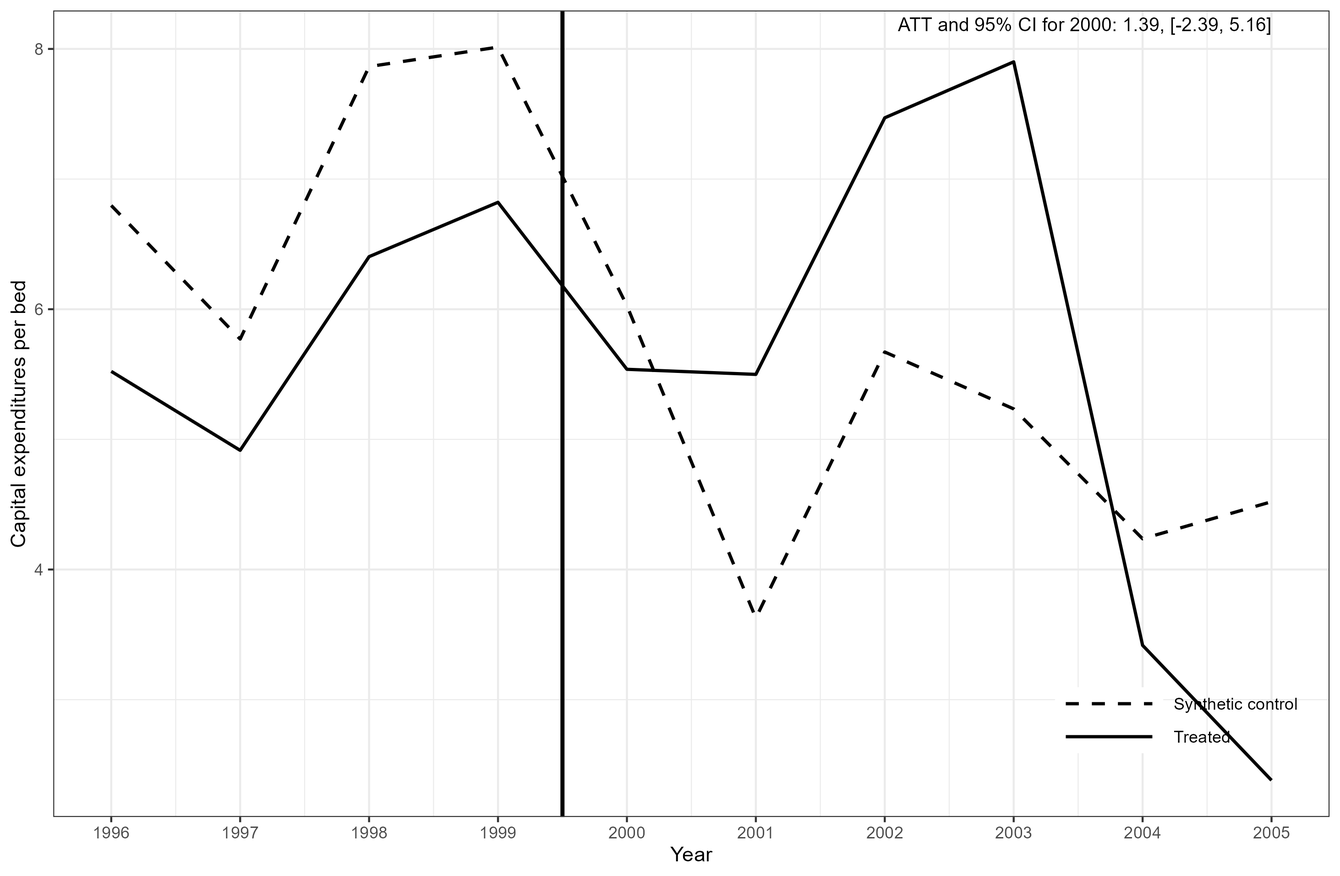
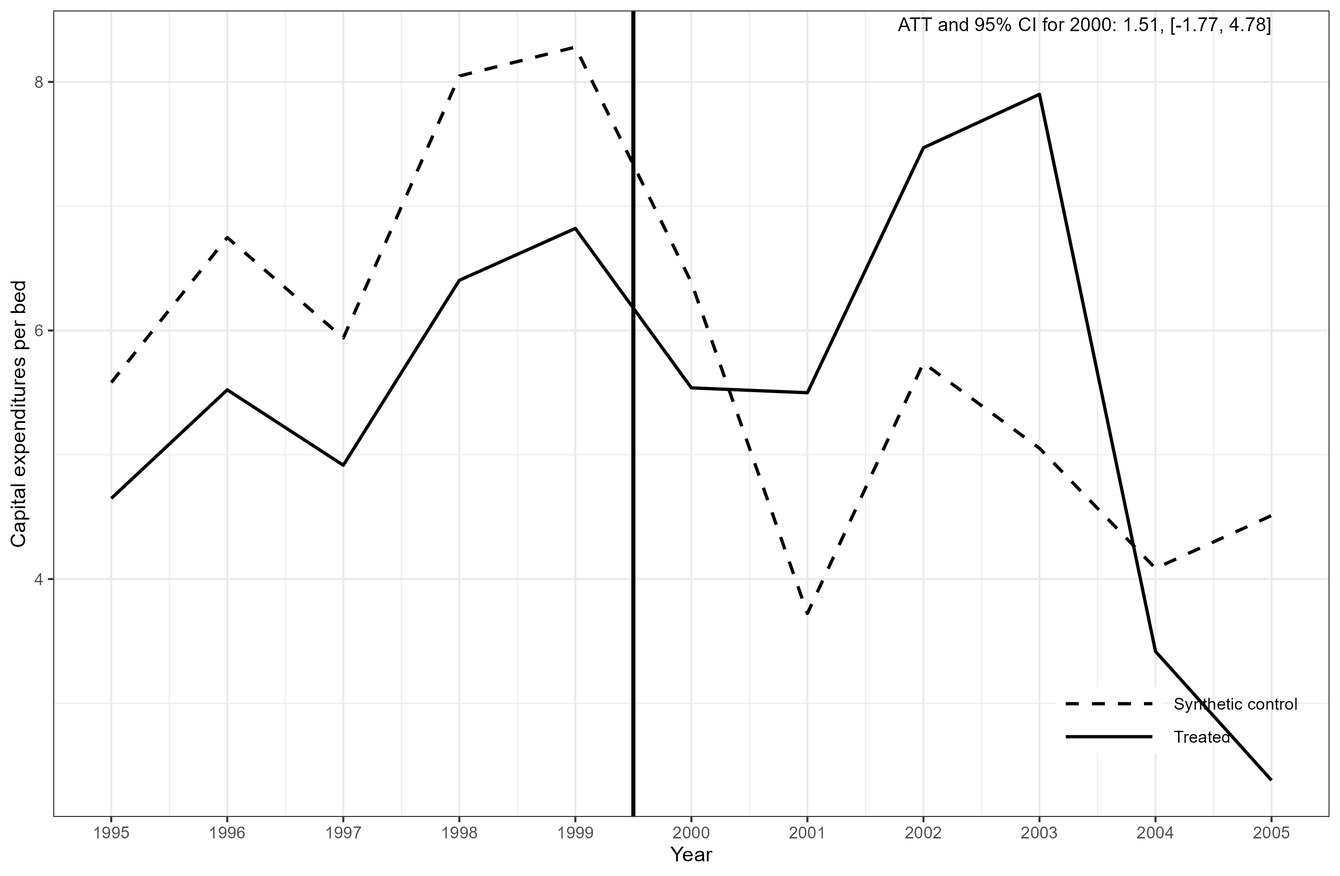
update results and sync with paper

diff --git a/paper.tex b/paper.tex
@@ -105,13 +105,13 @@ Credibly estimating the effects of CAH designation is complicated by staggered p
 
 We implement this comparison using a Synthetic Difference-in-Differences (SDID) estimator, which constructs weighted combinations of control hospitals to closely match treated hospitals’ pre-designation outcome trajectories. This approach is well suited to our setting, where treatment occurs in a small number of cohorts and conventional difference-in-differences comparisons may be sensitive to residual imbalance or differential trends across states.
 
-Using hospital-level CAH designation data from the Flex Monitoring Team, annual survey data from the American Hospital Association, and financial data from the Hospital Cost Report Information System and IRS Form 990 filings, we estimate the effects of CAH designation on hospital finances, investment, capacity, and organizational outcomes. We find that CAH designation substantially improves short-run financial performance, increasing operating margins and easing immediate financial pressure. These gains, however, do not translate into large increases in long-run capital intensity: capital expenditures rise modestly, while installed capital per bed changes little. Instead, hospitals respond primarily by adjusting scale. CAH designation is associated with reductions in total beds, obstetric capacity, and nursing staff, consistent with active resizing to satisfy eligibility requirements. At the organizational level, CAH designation reduces hospital closures, with no meaningful effect on merger activity. Taken together, the results suggest that CAH designation preserves hospital survival largely by inducing continued operation at a smaller scale rather than by maintaining pre-designation capacity.
+Using hospital-level CAH designation data from the Flex Monitoring Team, annual survey data from the American Hospital Association, and financial data from the Hospital Cost Report Information System and IRS Form 990 filings, we estimate the effects of CAH designation on hospital finances, investment, capacity, and organizational outcomes. We find that CAH designation substantially improves short-run financial performance, increasing operating margins and easing immediate financial pressure. These gains, however, do not translate into large increases in long-run capital intensity: capital expenditures are imprecisely estimated and net fixed assets per bed change little. Instead, hospitals respond primarily by adjusting scale. CAH designation is associated with reductions in total beds, obstetric capacity, and nursing staff, consistent with active resizing to satisfy eligibility requirements. At the organizational level, CAH designation reduces hospital closures, with no meaningful effect on merger activity and a modest increase in system membership. Taken together, the results suggest that CAH designation preserves hospital survival largely by inducing continued operation at a smaller scale rather than by maintaining pre-designation capacity.
 
 While CAH designation improves hospital survival, the implications for aggregate inpatient capacity are less clear. Reduced closures preserve capacity that would otherwise be lost, but hospitals that convert to CAH status also reduce beds and staffing to comply with eligibility requirements. To gauge the net effect, we combine our estimated impacts on closures and within-hospital capacity in a simple back-of-the-envelope calculation. Using our point estimates and a conversion rate consistent with observed CAH adoption during the initial rollout, the implied reduction in beds among converting hospitals outweighs the capacity preserved through avoided closures. These calculations are necessarily approximate and sensitive to assumptions about conversion intensity and closure risk, but they highlight an important mechanism: designation-based subsidies may preserve hospital presence primarily by encouraging continued operation at a smaller scale rather than by maintaining pre-designation capacity.
 
 This paper contributes to three related literatures. First, a large body of work studies hospital closures and their consequences for access and patient outcomes \citep{buchmueller2006, holmes2006, lindrooth2003, hsia2011, chandra2023, chatterji2024}. A complementary strand examines the determinants of hospital exit, emphasizing the role of financial distress, payer mix, and local market conditions \citep{sloan2003, harrison2007}. Second, a growing literature evaluates how policy-driven changes in hospital resources affect financial performance and survival. In the context of broad financing reforms, Medicaid expansions are associated with improved hospital margins and reductions in closure risk \citep{blavin2016, lindrooth2018, blavin2021}. Third, we relate to work studying Medicare’s targeted payment adjustments for low-volume or rural providers, which are often justified on access grounds but may change hospitals’ long-run incentives and scale of operation (e.g., through eligibility constraints and compliance requirements).
 
-Our focus on CAH designation is distinct because it is a designation-based subsidy that simultaneously raises reimbursement and restricts scale, making its net implications for access theoretically ambiguous. Existing work has largely emphasized survival as the principal outcome, with less attention to how policies that prevent closure may simultaneously reshape hospitals’ operational scale and service capacity. Our analysis therefore complements \cite{carroll2025}, who studies CAH designation through simulated revenue changes and closure hazards, by estimating the reduced-form effects of designation itself on a broader set of outcomes—including capital investment, capacity, and staffing—while exploiting the staggered 1999–2002 rollout of state CAH availability. This broader perspective allows us to characterize not only whether hospitals remain open, but how the quantity and scope of care they provide changes when they do.
+Our focus on CAH designation is distinct because it is a designation-based subsidy that simultaneously raises reimbursement and restricts scale, making its net implications for access theoretically ambiguous. Existing work has largely emphasized survival as the principal outcome, with less attention to how policies that prevent closure may simultaneously reshape hospitals’ operational scale and service capacity. Our analysis therefore complements \cite{carroll2025}, who studies CAH designation through simulated revenue changes and closure hazards, by estimating the reduced-form effects of designation itself on a broader set of outcomes—including capital investment, capacity, and staffing—while exploiting the staggered 1999–2002 rollout of state CAH availability. Our main SDID estimates focus on the 1999–2001 cohorts, which capture the core early adoption years of the CAH program. This broader perspective allows us to characterize not only whether hospitals remain open, but how the quantity and scope of care they provide changes when they do.
 
 Our findings are particularly salient given renewed policy interest in designation-based approaches to hospital support. For example, the American Hospital Association has recently advocated for a new ``Metropolitan Anchor Hospital'' designation aimed at stabilizing urban safety-net hospitals with high Medicaid exposure. While such proposals differ in important ways from the CAH program, they share a common logic: providing targeted financial relief to hospitals deemed essential to local access. Our results suggest that designation-based subsidies can be effective at preserving hospital survival, but that they may do so by encouraging hospitals to operate at a smaller scale. As a result, policymakers considering similar interventions should weigh not only whether hospitals remain open, but also how designation affects the quantity and scope of care those hospitals ultimately provide.
 
@@ -167,7 +167,7 @@ We measure capital intensity as real net fixed assets per bed, where net fixed a
 We measure hospital capacity and staffing using three complementary indicators drawn from the AHA Annual Survey: total staffed beds, obstetric (OB) beds, and full-time equivalent (FTE) registered nurses. Total beds capture overall inpatient capacity, while OB beds provide a targeted measure of capacity in maternity services, a clinically and financially salient service line for many small and rural hospitals. FTE registered nurses proxy for labor inputs and operational capacity, reflecting hospitals’ ability to staff inpatient services and sustain day-to-day clinical operations
 
 \paragraph{\textit{Organizational change.}}  
-Closures and mergers are identified using the AHA’s summary of changes. We construct indicators for each event at the hospital-year level and aggregate to counts at the state-year level. To facilitate comparisons across states and over time, we normalize outcomes by computing closures or mergers per 100 hospitals, using the lagged hospital stock as the denominator.  
+Closures and mergers are identified using the AHA’s summary of changes. We construct indicators for each event at the hospital-year level and aggregate to counts at the state-year level. To facilitate comparisons across states and over time, we rescale SDID estimates and plotted paths by the mean pre-period hospital count in treated states, reporting results as counts per 100 hospitals.  
 
 \paragraph{\textit{Other covariates.}}  
 From the AHA survey, we collect ownership, teaching status, system affiliation, and bed size. To capture geographic isolation, which is central to CAH eligibility, we compute the distance from each hospital to its nearest neighbor. We combine ZIP-code–based and latitude–longitude measures, taking the minimum of the two to approximate travel distance.  
@@ -180,7 +180,7 @@ Figure~\ref{fig:desc-panelview-treat} visualizes the staggered rollout of CAH de
 
 We limit our empirical analysis to the years from 1995 through 2010 in order to align with the core years over which states adopted CAH designations (1999 through 2002) and avoid increasingly noisy estimates of operating margins in prior years. With this additional restriction to 1995-2010, Table~\ref{tab:summary-by-cah} provides descriptive statistics for CAHs and non-CAHs, focusing on the key CAH eligibility criteria of bed size, rural location, and proximity to other hospitals, as well as our primary outcome variables of operating margin, closures, and mergers. For CAHs, we present summary statistics separately for the years prior to CAH designation, the years with CAH designation, and all years combined (columns 1-3 of Table~\ref{tab:summary-by-cah}. Hospitals that received CAH designation after 2010 (before 1995) therefore enter into the ``pre'' (``post'') values but not vice versa, hence the different counts of pre and post within CAH designated hospitals. 
 
-We highlight three points from Table \ref{tab:summary-by-cah}. First, CAHs are significantly smaller, more rural, and less proximate to other hospitals than are non-CAHs, consistent with the underlying CAH eligibility criteria. Second, demonstrating the the relative flexibility in CAH eligibility criteria, there remains some overlap in the distribution of these characteristics between CAH and non-CAH. For example, among hospitals receiving CAH designation, the 90th percentile in bed size in pre-CAH years was 103. Meanwhile the 10th percentile of bed size for non-CAHs was 49. CAH designation therefore does not rigidly imply that hospitals are rural, smaller, or less proximate to others than non-CAHs, although on average this remains true. Third, we see that hospitals already with CAH designation are consistently smaller in terms of bed size than similar hospitals who eventually also receive CAH designation. For example, after receiving CAH designation, the mean CAH bed size and mean number of inpatient days were 40 and 8, respectively. Meanwhile, the mean bed size and inpatient days for CAHs before receiving designation was 56 and 11. The level changes in bed sizes and inpatient days reflect the practical constraints placed on hospitals once receiving CAH designation, wherein such hospitals appear to reduce their number of beds and inpatient days in order to receive and maintain CAH designation.
+We highlight three points from Table \ref{tab:summary-by-cah}. First, CAHs are significantly smaller, more rural, and less proximate to other hospitals than are non-CAHs, consistent with the underlying CAH eligibility criteria. Second, demonstrating the relative flexibility in CAH eligibility criteria, there remains some overlap in the distribution of these characteristics between CAH and non-CAH. For example, among hospitals receiving CAH designation, the 90th percentile in bed size in pre-CAH years was 106. Meanwhile the 10th percentile of bed size for non-CAHs was 49. CAH designation therefore does not rigidly imply that hospitals are rural, smaller, or less proximate to others than non-CAHs, although on average this remains true. Third, we see that hospitals already with CAH designation are consistently smaller in terms of bed size than similar hospitals who eventually also receive CAH designation. For example, after receiving CAH designation, the mean CAH bed size and mean inpatient days per bed were 40 and 134, respectively. Meanwhile, the mean bed size and inpatient days per bed for CAHs before receiving designation were 54 and 165. The level changes in bed sizes and inpatient days per bed reflect the practical constraints placed on hospitals once receiving CAH designation, wherein such hospitals appear to reduce their number of beds and inpatient days in order to receive and maintain CAH designation.
 
 \section{Effects of CAH Designation}
 \label{sec:design}
@@ -190,7 +190,7 @@ Guided by our discussion in Section~\ref{sec:background} and surrounding Eq.~\eq
 \subsection{Empirical Strategy}
 \label{sec:design-methods}
 
-SDID estimates nonnegative unit weights on the comparison pool to reproduce the treated cohort’s pre-period trajectory and time weights to align pre-period averages, yielding a post-period ATT and treated/synthetic paths. We report cohort-level paths to make the identifying variation transparent and then aggregate across cohorts in event time by weighting each cohort’s path by its treated-unit count. Inference follows our implementation: bootstrap standard errors for hospital-level margins and jackknife for state-level count outcomes.
+SDID estimates nonnegative unit weights on the comparison pool to reproduce the treated cohort’s pre-period trajectory and time weights to align pre-period averages, yielding a post-period ATT and treated/synthetic paths. We report cohort-level paths to make the identifying variation transparent and then aggregate across cohorts in event time by weighting each cohort’s path by its treated-unit count. Inference follows our implementation: jackknife standard errors.
 
 Formally, let $Y_{it}$ denote the outcome for unit $i$ in period $t$, $D_{it}$ an indicator for treatment, and $G$ the set of treated units in a given cohort $c$ with pre-period $\mathcal{T}_0$ and post-period $\mathcal{T}_1$. The SDID estimator chooses unit weights $\omega=(\omega_j)_{j\in C}$ for comparison units $C$ and time weights $\lambda=(\lambda_t)_{t\in\mathcal{T}_0}$ to minimize
 \begin{equation*}
@@ -202,7 +202,7 @@ subject to $\omega_j\ge 0$, $\sum_{j\in C}\omega_j=1$, and $\lambda_t\ge 0$, $\s
 \begin{equation*}
 \widehat{\tau}_c = \frac{1}{|\mathcal{T}_1|}\sum_{t\in \mathcal{T}_1}\Big(\bar Y_{Gt} - \sum_{j\in C}\omega_j Y_{jt}\Big).
 \end{equation*}
-We report both the path $\bar Y_{Gt}-\sum_{j\in C}\omega_j Y_{jt}$ over $t$ and the pooled ATT $\widehat\tau_c$. Cohort estimates are then aggregated in event time by weighting each cohort’s path by its treated-unit count.  We summarize effects across cohorts using a precision-weighted average, where each cohort’s ATT is weighted by the inverse of its estimated variance. This aggregation places greater weight on cohorts for which treatment effects are estimated more precisely. We report standard errors for the pooled estimate using the corresponding inverse-variance formula, treating cohort-specific estimates as approximately independent.
+We report both the path $\bar Y_{Gt}-\sum_{j\in C}\omega_j Y_{jt}$ over $t$ and the pooled ATT $\widehat\tau_c$. Cohort estimates are then aggregated in event time by weighting each cohort’s path by its treated-unit count. We summarize effects across cohorts using treated-unit–count weights for the pooled ATT and compute pooled standard errors using the same weighting scheme, treating cohort-specific estimates as approximately independent.
 
 We prefer an SDID approach for two reasons. First, our analysis relies on a small number of states and hospitals receiving CAH designation, along with a limited pool of comparable control hospitals, for which SDID methods are less sensitive. Second, the criteria for CAH designation are not strictly mechanical in practice, which will tend to introduce unobserved heterogeneity and potential endogeneity into the treatment selection process. Hospitals that receive CAH designation may therefore systematically differ in a time-varying way from a simply-defined control group (e.g., small, rural hospitals in the same state). In assigning optimal weights to minimize the pre-treatment outcome differences, SDID methods intuitively creates a control group for which the parallel trends assumption is more likely to be satisfied.\footnote{We complement our SDID estimates with a Callaway–Sant’Anna (CS) event-study estimator that also traces dynamic responses over time \citep{callaway2021}.} 
 
@@ -213,13 +213,13 @@ In the remainder of this section, we discuss results by outcome category, beginn
 
 We begin by examining how CAH designation affects hospital operating margins, the most immediate outcome of the reimbursement change in Section~\ref{sec:conceptual}. In this analysis, treatment is defined at the hospital level: a hospital is considered treated once it receives CAH designation, and the unit of observation is the hospital-year. The sample is restricted to facilities plausibly eligible for designation (i.e., small rural hospitals consistent with program criteria), excluding hospitals with missing financial data. This setup isolates the direct effect of adopting CAH status on hospital margins.
 
-For each cohort, we construct a balanced panel of treated units and never-treated comparisons over a symmetric window around the adoption year. For each treated cohort $i$, defined by the year of first CAH designation, we construct the treated group as hospitals that receive their initial CAH designation in year (i) and are observed over an event window $$([i-\text{pre},, i+\text{post}]).$$ The main control group consists of ``not-yet-treated'' hospitals that (i) do not receive CAH at any point within that event window and (ii) are located in states that had no CAH hospitals as of the cohort year. This design means that, for a 1999 CAH in Arkansas, for example, we can use non-CAH Kentucky hospitals through the event window as controls (Kentucky’s first CAH arrives in 2000), but we do not include as controls any hospitals in Georgia, where CAH was already available in 1999. The restriction on a state's first CAH designation is intended to reduce reliance on comparisons between early adopters and same-state or same-cohort non-adopters whose decision not to convert may reflect unobserved, time-varying hospital characteristics (e.g., management quality, lobbying success, or local politics) that also directly affect the outcomes we study. This restriction therefore pushes the design toward comparing treated hospitals to similar hospitals in ``slower'' Flex states that had not yet opened the CAH option in the cohort year, while still allowing those states to roll out CAH later and using their not-yet-treated hospitals as controls.\footnote{In the supplemental appendix, we show that our results are robust to varying lags for state-level CAH adoption. As the lag increases, potential bias from future treatment of the control units declines, along with our available control pool of hospitals. The resulting estimates are less precise but broadly consistent with our main specification and sample construction.}
+For each cohort, we construct a balanced panel of treated units and comparison hospitals over a symmetric window around the adoption year. For each treated cohort $i$, defined by the year of first CAH designation, we construct the treated group as hospitals that receive their initial CAH designation in year (i) and are observed over an event window $$([i-\text{pre},, i+\text{post}]).$$ The comparison pool combines two groups: (i) ``never-treated'' hospitals located in states that never adopt CAH designation during our sample, and (ii) ``not-yet-treated'' hospitals in later-adopting states that have no CAH hospitals as of the cohort year and do not convert within the event window. This design means that, for a 1999 CAH in Arkansas, for example, we can use non-CAH Kentucky hospitals through the event window as controls (Kentucky’s first CAH arrives in 2000), but we do not include as controls any hospitals in Georgia, where CAH was already available in 1999. The restriction on a state's first CAH designation is intended to reduce reliance on comparisons between early adopters and same-state or same-cohort non-adopters whose decision not to convert may reflect unobserved, time-varying hospital characteristics (e.g., management quality, lobbying success, or local politics) that also directly affect the outcomes we study. This restriction therefore pushes the design toward comparing treated hospitals to similar hospitals in ``slower'' Flex states that had not yet opened the CAH option in the cohort year, while still allowing those states to roll out CAH later and using their not-yet-treated hospitals as controls.\footnote{In the supplemental appendix, we show that our results are robust to varying lags for state-level CAH adoption. As the lag increases, potential bias from future treatment of the control units declines, along with our available control pool of hospitals. The resulting estimates are less precise but broadly consistent with our main specification and sample construction.}
 
-Figure~\ref{fig:sdid-financial} reports SDID estimates of CAH designation on operating margin and the current ratio. Consistent with financial distress preceding conversion, treated hospitals exhibit declining margins relative to their synthetic controls in the pre-period, followed by a discrete improvement around adoption. The pooled ATT implies that CAH designation increases operating margin by 0.041 (95\% CI [0.01, 0.08]), a sizable gain that aligns with cost-based reimbursement raising Medicare revenue net of compliance costs. By contrast, liquidity improves in the point estimates but is imprecisely estimated: the pooled ATT for the current ratio is 0.278 with a confidence interval that includes zero (95\% CI [-0.73, 1.29]). Overall, the margin results provide clear evidence that CAH designation relaxes short-run financial pressure, while the liquidity results suggest (but do not conclusively establish) improved near-term financial flexibility.
+Figure~\ref{fig:sdid-financial} reports SDID estimates of CAH designation on operating margin and the current ratio. Consistent with financial distress preceding conversion, treated hospitals exhibit declining margins relative to their synthetic controls in the pre-period, followed by a discrete improvement around adoption. The pooled ATT implies that CAH designation increases operating margin by 0.035 (95\% CI [0.00, 0.07]), a sizable gain that aligns with cost-based reimbursement raising Medicare revenue net of compliance costs. By contrast, liquidity improves in the point estimates but is imprecisely estimated: the pooled ATT for the current ratio is -0.020 with a confidence interval that includes zero (95\% CI [-0.91, 0.87]). Overall, the margin results provide clear evidence that CAH designation relaxes short-run financial pressure, while the liquidity results suggest (but do not conclusively establish) improved near-term financial flexibility.
 
 \subsection{Capital Stock and Investment}
 \label{sec:capital}
-Figure~\ref{fig:sdid-capital} examines whether the improved operating position translates into changes in capital intensity (net fixed assets per bed) and investment flows (capital expenditures per bed). The estimated effect on the installed capital stock is negative but modest and statistically indistinguishable from zero: the pooled ATT for net fixed assets per bed is -0.086 (95\% CI [-0.24, 0.07]). Estimated effects on capital expenditures are also negative but highly imprecise (ATT = -0.794, 95\% CI [-5.17, 3.59]). Taken together, these results do not support a strong conclusion that CAH designation meaningfully changes long-run capital intensity over the time horizon we study. A natural interpretation is that the reimbursement change eases short-run financial constraints (as reflected in margins) but that adjustments in the capital stock are slower-moving and potentially offset by contemporaneous reductions in scale needed to satisfy CAH eligibility. 
+Figure~\ref{fig:sdid-capital} examines whether the improved operating position translates into changes in capital intensity (net fixed assets per bed) and investment flows (capital expenditures per bed). The estimated effect on the installed capital stock is negative but modest and statistically indistinguishable from zero: the pooled ATT for net fixed assets per bed is -0.090 (95\% CI [-0.27, 0.09]). Estimated effects on capital expenditures are also negative but highly imprecise (ATT = -0.906, 95\% CI [-5.37, 3.56]). Taken together, these results do not support a strong conclusion that CAH designation meaningfully changes long-run capital intensity over the time horizon we study. A natural interpretation is that the reimbursement change eases short-run financial constraints (as reflected in margins) but that adjustments in the capital stock are slower-moving and potentially offset by contemporaneous reductions in scale needed to satisfy CAH eligibility. 
 
 \subsection{Capacity and Staffing}
 \label{sec:capacity}
@@ -230,9 +230,9 @@ Figure~\ref{fig:sdid-capacity} shows that CAH designation is associated with a c
 
 Aggregating to the state-year level yields information on the number of hospitals, closures, mergers, and CAH adoptions in each state. Treatment timing is defined as the first observed CAH designation in a state, producing staggered adoption between 1999 and 2002. Event-time variables are defined relative to each state’s adoption year.
 
-We next examine whether CAH designation altered hospitals’ propensity to exit or consolidate. Outcomes are defined at the state-year level and normalized to ``per 100 hospitals’’ to allow comparability across cohorts with different hospital stocks. Figure~\ref{fig:change-sdid} presents SDID results for (a) closures and (b) mergers. In each case, the synthetic controls track the pre-designation trajectories reasonably well, though the pre-period series is noisier than for financial outcomes because closures and mergers are relatively rare events.
+We next examine whether CAH designation altered hospitals' propensity to exit, consolidate, or join a larger system. Closures and mergers are defined at the state-year level as counts. To aid interpretation and comparability, we rescale SDID estimates and plotted paths by the mean pre-period hospital count in treated states, reporting results as counts per 100 hospitals. System membership is measured at the hospital-year level, so this outcome is estimated at the hospital level. Figure~\ref{fig:sdid-org-change} presents SDID results for (a) closures, (b) mergers, and (c) system membership. The synthetic controls track pre-designation trajectories reasonably well; the pre-period series is noisier for closures and mergers because these events are relatively rare.
 
-The post-period estimates point to meaningful reductions in closures following CAH designation. The pooled ATT implies a decline of 0.483 closures per 100 hospitals (95\% CI [-0.83, -0.13]), consistent with CAH reimbursement relaxing acute financial distress and thereby reducing the likelihood of exit. By contrast, we find no evidence of a systematic effect on merger activity: the pooled ATT for mergers is 0.111 per 100 hospitals, with a confidence interval that includes zero (95\% CI [-0.19, 0.41]). Taken together, the organizational-change results indicate that CAH designation primarily operates on the extensive margin of survival rather than affecting consolidation, consistent with the improved operating margins documented in Section~\ref{sec:financial}.
+The post-period estimates point to meaningful reductions in closures following CAH designation. The pooled ATT implies a decline of 0.483 closures per 100 hospitals (95\% CI [-0.83, -0.13]), consistent with CAH reimbursement relaxing acute financial distress and thereby reducing the likelihood of exit. By contrast, we find no evidence of a systematic effect on merger activity: the pooled ATT for mergers is 0.111 per 100 hospitals, with a confidence interval that includes zero (95\% CI [-0.19, 0.41]). At the hospital level, we find a modest increase in system membership (ATT = 0.074, 95\% CI [0.01, 0.14]), suggesting some movement toward affiliation even as closures decline. Taken together, the organizational-change results indicate that CAH designation primarily operates on the extensive margin of survival rather than affecting consolidation, consistent with the improved operating margins documented in Section~\ref{sec:financial}.
 
 
 \subsection{Net Capacity Effects}
@@ -251,19 +251,19 @@ N\rho\,\Delta B,
 \end{equation}
 where the first term captures beds preserved via avoided closures and the second term captures beds lost (or gained) through within-hospital changes among CAH converters.
 
-We implement \eqref{eq:net_beds} using our pooled SDID estimates: $\Delta C=-0.483$ closures per 100 hospitals and $\Delta B=-4.081$ beds per converting hospital. For a back-of-the-envelope conversion intensity we set $\rho=0.30$. To proxy $\bar B_{\text{close}}$, we use the mean pre-CAH bed size from Table~\ref{tab:summary-by-cah}, $\bar B_{\text{close}}\approx 59$. Dividing \eqref{eq:net_beds} by $N$ yields the net effect per hospital:
+We implement \eqref{eq:net_beds} using our pooled SDID estimates: $\Delta C=-0.483$ closures per 100 hospitals and $\Delta B=-4.081$ beds per converting hospital. For a back-of-the-envelope conversion intensity we set $\rho=0.30$. To proxy $\bar B_{\text{close}}$, we use the mean pre-CAH bed size from Table~\ref{tab:summary-by-cah}, $\bar B_{\text{close}}\approx 54$. Dividing \eqref{eq:net_beds} by $N$ yields the net effect per hospital:
 \begin{equation*}
 \frac{\Delta \text{Beds}^{net}}{N}
 =
-\left(\frac{0.483}{100}\right)\times 59
+\left(\frac{0.483}{100}\right)\times 54
 +
 0.30\times(-4.081)
 \approx
-0.285 - 1.224
+0.261 - 1.224
 =
--0.939.
+-0.964.
 \end{equation*}
-Thus, under these assumptions, the point estimates imply a net reduction of approximately $0.94$ beds per hospital (or $0.94N$ beds for a group of $N$ hospitals). Intuitively, the estimated reduction in closures preserves some capacity, but the within-hospital bed reductions among converting hospitals dominate at the observed conversion rates.
+Thus, under these assumptions, the point estimates imply a net reduction of approximately $0.96$ beds per hospital (or $0.96N$ beds for a group of $N$ hospitals). Intuitively, the estimated reduction in closures preserves some capacity, but the within-hospital bed reductions among converting hospitals dominate at the observed conversion rates.
 
 Because \eqref{eq:net_beds} is linear in $\rho$, it is straightforward to compute the break-even conversion share $\rho^{*}$ at which preserved beds from avoided closures exactly offset resizing among converters. Setting $\Delta \text{Beds}^{net}=0$ and solving for $\rho$ gives
 \begin{equation}
@@ -272,45 +272,45 @@ Because \eqref{eq:net_beds} is linear in $\rho$, it is straightforward to comput
 \frac{\left(\frac{-\Delta C}{100}\right)\bar B_{\text{close}}}{-\Delta B}.
 \label{eq:rho_star_beds}
 \end{equation}
-Using $\Delta C=-0.483$, $\Delta B=-4.081$, and $\bar B_{\text{close}}\approx 59$ implies
+Using $\Delta C=-0.483$, $\Delta B=-4.081$, and $\bar B_{\text{close}}\approx 54$ implies
 $$
 \rho^{*}
 =
-\frac{(0.483/100)\times 59}{4.081}
+\frac{(0.483/100)\times 54}{4.081}
 \approx
-0.070.
+0.064.
 $$
-That is, about 7\% of hospitals would need to convert for the point estimates to imply break-even bed capacity. When $\rho$ exceeds this threshold---as in our setting once the program is broadly available---the implied net effect on total beds is negative, reflecting that CAH designation preserves hospital presence primarily through continued operation at a smaller scale rather than through maintenance of pre-designation capacity.
+That is, about 6\% of hospitals would need to convert for the point estimates to imply break-even bed capacity. When $\rho$ exceeds this threshold---as in our setting once the program is broadly available---the implied net effect on total beds is negative, reflecting that CAH designation preserves hospital presence primarily through continued operation at a smaller scale rather than through maintenance of pre-designation capacity.
 
 \paragraph{\textit{Accounting for utilization.}}
 The bed-based calculation in \eqref{eq:net_beds} captures the extensive margin of capacity but ignores changes in how intensively beds are used. Our estimates indicate that CAH designation also reduces inpatient days per bed by approximately $6.7$ days, though this effect is imprecisely estimated. Converting hospitals may not only have fewer beds but also operate those beds at lower intensity. To incorporate this margin, we extend the accounting exercise to total inpatient days.
 
-Let $\bar U_0$ denote pre-CAH inpatient days per bed, and let $\Delta U$ denote the estimated change in utilization per bed. Using values from Table~\ref{tab:summary-by-cah}, $\bar U_0 \approx 168$ days per bed. The total change in inpatient days per converting hospital combines bed and utilization effects:
+Let $\bar U_0$ denote pre-CAH inpatient days per bed, and let $\Delta U$ denote the estimated change in utilization per bed. Using values from Table~\ref{tab:summary-by-cah}, $\bar U_0 \approx 165$ days per bed. The total change in inpatient days per converting hospital combines bed and utilization effects:
 $$
 \Delta D = \Delta B \cdot \bar U_0 + \bar B_{\text{close}} \cdot \Delta U + \Delta B \cdot \Delta U.
 $$
 Substituting our estimates yields
 $$
-\Delta D = (-4.081)(168) + (59)(-6.663) + (-4.081)(-6.663) \approx -686 - 393 + 27 = -1{,}052
+\Delta D = (-4.081)(165) + (54)(-6.663) + (-4.081)(-6.663) \approx -673 - 360 + 27 = -1{,}006
 $$
-inpatient days per converting hospital. Avoided closures preserve $\bar B_{\text{close}} \times \bar U_0 = 59 \times 168 = 9{,}912$ inpatient days per marginal hospital. The net effect on inpatient days per hospital is therefore
+inpatient days per converting hospital. Avoided closures preserve $\bar B_{\text{close}} \times \bar U_0 = 54 \times 165 = 8{,}910$ inpatient days per marginal hospital. The net effect on inpatient days per hospital is therefore
 $$
 \frac{\Delta D^{net}}{N}
 =
-\left(\frac{0.483}{100}\right) \times 9{,}912
+\left(\frac{0.483}{100}\right) \times 8{,}910
 +
-0.30 \times (-1{,}052)
+0.30 \times (-1{,}006)
 \approx
-47.9 - 315.6
+43.0 - 301.8
 =
--267.7.
+-258.8.
 $$
-The break-even conversion share under this measure is $\rho^{*} = 47.9 / 1{,}052 \approx 0.046$, or about 5\%. Accounting for utilization thus implies a less favorable capacity tradeoff: CAH designation must reduce closures by more, or fewer hospitals must convert, to avoid net reductions in service capacity.
+The break-even conversion share under this measure is $\rho^{*} = 43.0 / 1{,}006 \approx 0.043$, or about 4\%. Accounting for utilization thus implies a less favorable capacity tradeoff: CAH designation must reduce closures by more, or fewer hospitals must convert, to avoid net reductions in service capacity.
 
 \paragraph{\textit{Sensitivity to conversion and closure effects.}}
 The net-capacity calculations depend primarily on two quantities: the share of hospitals that convert to CAH status, $\rho$, and the magnitude of the closure response, $\Delta C$. Because the expressions are linear in both parameters, it is straightforward to assess how the implied net effect would change under alternative scenarios. Holding fixed the estimated within-hospital effects, an increase in $\rho$ mechanically amplifies the capacity loss from downsizing, while a larger (more negative) value of $\Delta C$ increases the amount of capacity preserved through avoided closures.
 
-The marginal effect of increasing the conversion share on net beds is $\partial(\Delta \text{Beds}^{net}/N)/\partial\rho=\Delta B \approx -4.1$ beds per ten-percentage-point increase in conversion. By contrast, the marginal effect of strengthening the closure response is $\partial(\Delta \text{Beds}^{net}/N)/\partial(-\Delta C)=\bar B_{\text{close}}/100 \approx 0.59$ beds per hospital. Thus, increases in conversion intensity must be accompanied by disproportionately large reductions in closure risk in order to offset the resulting downsizing.
+The marginal effect of increasing the conversion share on net beds is $\partial(\Delta \text{Beds}^{net}/N)/\partial\rho=\Delta B \approx -4.1$ beds per ten-percentage-point increase in conversion. By contrast, the marginal effect of strengthening the closure response is $\partial(\Delta \text{Beds}^{net}/N)/\partial(-\Delta C)=\bar B_{\text{close}}/100 \approx 0.54$ beds per hospital. Thus, increases in conversion intensity must be accompanied by disproportionately large reductions in closure risk in order to offset the resulting downsizing.
 
 We view these calculations as suggestive rather than definitive. They underscore that, unless CAH designation substantially reduces the probability of closure beyond what we estimate, higher rates of conversion will tend to imply larger net reductions in inpatient capacity, even as the program succeeds in preserving hospital presence.
 
@@ -407,7 +407,7 @@ We view these calculations as suggestive rather than definitive. They underscore
 \begin{figure}[htb]
 \centering
 \begin{minipage}[h]{6in}
-\caption[caption]{SDID Estimates of CAH Status on Hospital Capacity and Staffing\footnote{Results from synthetic difference-in-differences (DD) on the estimated effect of CAH status on hospital capital stock and investment measures. Panel (a) presents results for total hospital beds, panel (b) presents results for obstetric beds, panel (c) presents results for full time equivalent (FTE) registered nurses (RNs), and panel (d) presents results for total inpatient days per hospital bed. The figures present the mean outcome among treated and synthetic control hospitals over time, with the synthetic DD treatment effect estimates noted in the upper right of each figure. We provide estimates of the average treatment effect on the treated (ATT) for each cohort (1999, 2000, and 2001) as well as a weighted average overall ATT, as detailed in the main text.}}
+\caption[caption]{SDID Estimates of CAH Status on Hospital Capacity and Staffing\footnote{Results from synthetic difference-in-differences (DD) on the estimated effect of CAH status on hospital capacity and staffing measures. Panel (a) presents results for total hospital beds, panel (b) presents results for obstetric beds, panel (c) presents results for full time equivalent (FTE) registered nurses (RNs), and panel (d) presents results for total inpatient days per hospital bed. The figures present the mean outcome among treated and synthetic control hospitals over time, with the synthetic DD treatment effect estimates noted in the upper right of each figure. We provide estimates of the average treatment effect on the treated (ATT) for each cohort (1999, 2000, and 2001) as well as a weighted average overall ATT, as detailed in the main text.}}
 \begin{tabular}{cc}
 \includegraphics[height=4in,width=2.7in,keepaspectratio]{results/beds-sdid.png} & \includegraphics[height=4in,width=2.7in,keepaspectratio]{results/beds_ob-sdid.png} \\
 \small (a) Total Beds & \small (b) Obstetric Beds \\
@@ -425,12 +425,14 @@ We view these calculations as suggestive rather than definitive. They underscore
 \begin{figure}[htb]
 \centering
 \begin{minipage}[h]{6in}
-\caption[caption]{SDID Estimates of CAH Status on Organizational Changes\footnote{Results from synthetic difference-in-differences (DD) on the estimated effect of CAH status on state-level hospital closures and mergers. Panel (a) presents results for closures and panel (b) for mergers. The figures present the mean closure and merger rates among treated and synthetic control states, with the synthetic DD treatment effect estimates noted in the upper right of each figure. We provide estimates of the average treatment effect on the treated (ATT) for each cohort (1999, 2000, and 2001) as well as a weighted average overall ATT, as detailed in the main text.}}
+\caption[caption]{SDID Estimates of CAH Status on Organizational Changes\footnote{Results from synthetic difference-in-differences (DD) on the estimated effect of CAH status on organizational outcomes. Panels (a) and (b) present state-level closures and mergers (counts rescaled by the mean pre-period hospital count to express outcomes per 100 hospitals). Panel (c) presents hospital-level system membership. The figures present the mean outcomes among treated units and synthetic controls, with the synthetic DD treatment effect estimates noted in the upper right of each figure. We provide estimates of the average treatment effect on the treated (ATT) for each cohort (1999, 2000, and 2001) as well as a weighted average overall ATT, as detailed in the main text.}}
 \begin{tabular}{cc}
 \includegraphics[height=4in,width=2.7in,keepaspectratio]{results/closure-rate-sdid.png} & \includegraphics[height=4in,width=2.7in,keepaspectratio]{results/merger-rate-sdid.png} \\
-\small (a) Closure Rate & \small (b) Merger Rate
+\small (a) Closures (per 100 hospitals) & \small (b) Mergers (per 100 hospitals) \\
+\includegraphics[height=4in,width=2.7in,keepaspectratio]{results/system-sdid.png} & \\
+\small (c) System Membership &
 \end{tabular}
-\label{fig:sdid-capacity}
+\label{fig:sdid-org-change}
 \end{minipage}
 \end{figure}
 

diff --git a/results/att_overall.tex b/results/att_overall.tex
@@ -1,13 +1,12 @@
 Outcome & SDID ATT & SDID 95\% CI & CS ATT & CS 95\% CI \\
-\midrule
-Operating margin & 0.041 & [0.01, 0.08] & 0.006 & [-0.04, 0.05] \\
-Current ratio & 0.278 & [-0.73, 1.29] & 1.363 & [0.74, 1.98] \\
-Net fixed assets & -0.086 & [-0.24, 0.07] & -0.144 & [-0.28, -0.01] \\
-Capital expenditures per bed & -0.794 & [-5.17, 3.59] & 0.694 & [-3.53, 4.92] \\
-Total beds & -4.081 & [-7.70, -0.46] & -16.779 & [-31.88, -1.68] \\
-OB beds & -0.468 & [-0.81, -0.12] & -4.280 & [-6.07, -2.49] \\
-FTE RNs & -2.023 & [-3.44, -0.61] & -60.022 & [-72.12, -47.92] \\
-Inpatient days per bed & -6.663 & [-18.49, 5.16] & -83.638 & [-117.72, -49.56] \\
-System membership & 0.074 & [0.01, 0.14] & 0.145 & [0.03, 0.26] \\
-Closures & -0.483 & [-0.83, -0.13] & -0.362 & [-0.76, 0.04] \\
-Mergers & 0.111 & [-0.19, 0.41] & -0.118 & [-0.68, 0.44] \\
+Operating margin & 0.035 & [0.00, 0.07] & 0.006 & [-0.04, 0.05] \\
+Current ratio & -0.020 & [-0.91, 0.87] & 1.363 & [0.80, 1.93] \\
+Net fixed assets & -0.090 & [-0.27, 0.09] & -0.144 & [-0.27, -0.01] \\
+Capital expenditures per bed & -0.906 & [-5.37, 3.56] & 0.694 & [-3.28, 4.67] \\
+Total beds & -4.081 & [-7.70, -0.46] & -16.779 & [-30.18, -3.38] \\
+OB beds & -0.468 & [-0.81, -0.12] & -4.280 & [-6.03, -2.53] \\
+FTE RNs & -2.023 & [-3.44, -0.61] & -60.022 & [-72.82, -47.23] \\
+Inpatient days per bed & -6.663 & [-18.49, 5.16] & -83.638 & [-118.11, -49.16] \\
+System membership & 0.074 & [0.01, 0.14] & 0.145 & [0.02, 0.27] \\
+Closures & -0.483 & [-0.83, -0.13] & -0.362 & [-0.76, 0.03] \\
+Mergers & 0.111 & [-0.19, 0.41] & -0.118 & [-0.63, 0.39] \\

diff --git a/results/desc_compare.tex b/results/desc_compare.tex
@@ -1,14 +1,13 @@
 \multicolumn{1}{c}{ } & \multicolumn{3}{c}{CAHs} & \multicolumn{1}{c}{ } \\
 \cmidrule(l{3pt}r{3pt}){2-4}
  & Pre & Post & Ever CAH & Never CAH\\
-\midrule
 Rural (\%) & 65.18 & 68.72 & 66.78 & 9.01 \\
 Bed size & 53.94 & 40.15 & 47.71 & 208.2 \\
  & {}[21.00, 106.00] & {}[16.00, 87.00] & {}[18.00, 100.00] & {}[49.00, 449.00] \\
 Distance to nearest hospital & 16.76 & 17.33 & 17.02 & 6.2 \\
  & {}[1.41, 30.51] & {}[7.91, 28.73] & {}[4.93, 29.61] & {}[0.00, 17.46] \\
-Inpatient days per bed & 10446.08 & 8141.51 & 9404 & 48791.1 \\
- & {}[1836.00, 27153.20] & {}[1143.00, 22879.00] & {}[1432.00, 25659.20] & {}[7568.40, 115182.60] \\
+Inpatient days per bed & 164.69 & 134.25 & 151.31 & 211.56 \\
+ & {}[68.89, 279.24] & {}[40.48, 267.84] & {}[52.78, 275.27] & {}[127.10, 298.27] \\
 Operating margin & -0.01 & -0.06 & -0.04 & 0 \\
  & {}[-0.14, 0.10] & {}[-0.24, 0.07] & {}[-0.21, 0.08] & {}[-0.14, 0.13] \\
 Current ratio & 2.98 & 2.7 & 2.79 & 2.44 \\
